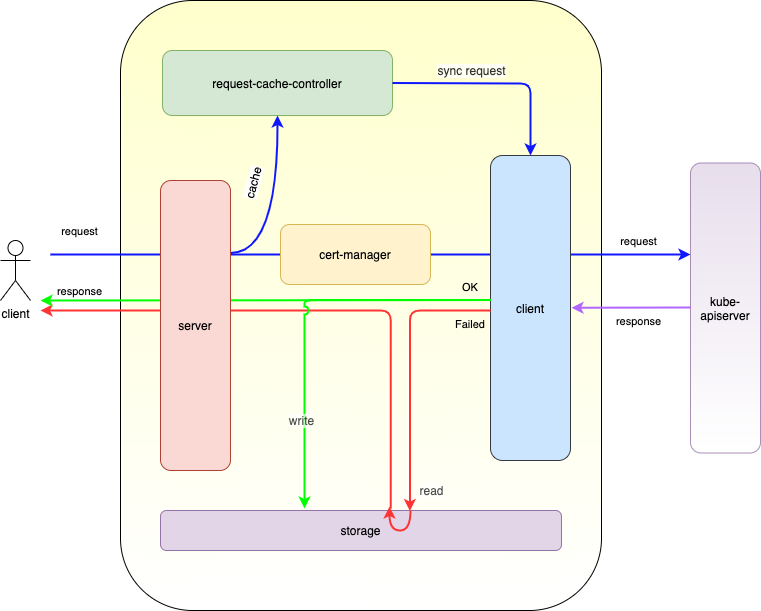
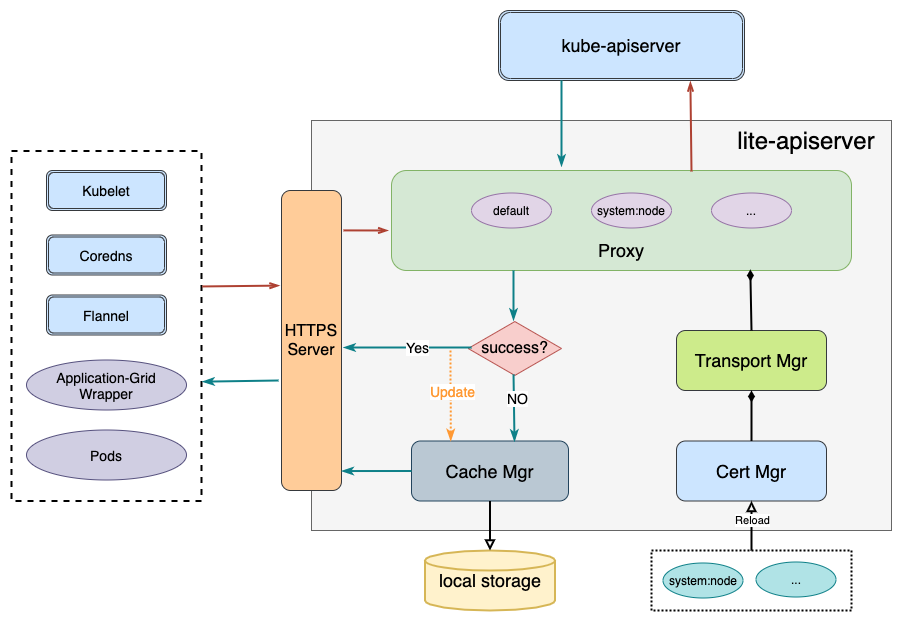
update lite-apiserver doc

diff --git a/docs/components/lite-apiserver_CN.md b/docs/components/lite-apiserver_CN.md
@@ -1,27 +1,97 @@
-lite-apiserver是运行在边缘节点上的轻量级apiserver，它代理节点上所有组件和Pod访问云端apiserver的请求，并对请求结果做高效缓存。在云边断连的情况下，利用这些缓存提供服务，实现边缘自治的能力。
+`lite-apiserver`是运行在边缘节点上的轻量级 apiserver，它代理节点上所有组件和业务容器访问云端 kube-apiserver 的请求，并对请求结果做高效缓存。在云边断连的情况下，利用这些缓存提供服务，实现边缘自治的能力。
+
+`lite-apiserver`具有以下特点:
+- 支持所有 Client 类型，包括以 bin(如 kubelet 等)或 pod(如 flannel\kube-proxy 等)形式运行的 Kubernetes 组件，以及以 InCluster 方式访问 kube-apiserver 的业务容器
+- 支持缓存所有类型资源(Kubernetes 内置资源和 Custom Resources)
+- 支持访问 kube-apisever 的所有认证和鉴权方式(TLS 客户端证书、token 等)，各组件和pod使用自己的认证方式和权限
+- 支持多种存储
 
 ## 架构图
 <div align="left">
   <img src="../img/lite-apiserver.png" width=70% title="lite-apiserver Architecture">
 </div>
 
-lite-apiserver具有以下特点:
-- 代理所有组件和节点上的pod到apiserver的请求
-- 支持访问apisever的证书、token等所有认证和鉴权方式，各组件和pod使用自己的认证方式和权限
-- 可处理和缓存所有类型的资源，包括kubernetes内置资源和CRD
+从整体上看，`lite-apiserver`启动一个 HTTPS Server 接受所有 Client 的请求（https request），并根据 request tls 证书中的 Common Name 选择对应的 ReverseProxy（如果 request 没有 mtls 证书，则使用 default），将 request 转发到 kube-apiserver。当云边网络正常时，将对应的返回结果（https response）返回给client，并按需将response异步存储到缓存中；当云边断连时，访问kube-apiserver超时，从缓存中获取已缓存的数据返回给client，达到边缘自治的目的。
+
+- **HTTPS Server**
+  监听 localhost 的端口（SuperEdge 中为51003）接受 Client 的 Https 请求。
+- **Cert Mgr && Transport Mgr**
+  Cert Mgr 负责管理连接 kube-apiserver 的 TLS 客户端证书。它周期性加载配置的TLS证书，如果有更新，通知Transport Mgr创建或更新对应的transport。
+  Transport Mgr负责管理transport。它接收Cert Mgr的通知，创建新的transport，或者关闭证书已更新的transport的旧连接。
+- **Proxy**
+  根据 request mtls 证书中的 Common Name 选择对应的 ReverseProxy（如果 request 没有 mtls 证书，则使用 default），将 request 转发到 kube-apiserver。如果请求成功，则将结果直接给 Client 返回，并调用 Cache Mgr 缓存数据；如果请求失败，则从 Cache Mgr 中读取数据给 Client。
+- **Cache Mgr**
+  根据 Client 的类型分别缓存 Get 和 List 的结果数据，并根据 Watch 的返回值，更新对应的 List 数据。
 
 ## 使用说明
-可使用static pod或者systemd在边缘节点上部署lite-apiserver，参见edgeadm或手动部署文档
+可使用static pod或者systemd在边缘节点上部署lite-apiserver，参见[edgeadm](../installation/install_via_edgeadm_CN.md)或[手动部署文档](../installation/install_manually_CN.md)
 
-### 启动参数
-#### Server相关参数
-- ca-file: 集群或apiserver使用的ca
-- tls-cert-file: ca-file签署的lite-apiserver的tls证书
-- tls-private-key-file: lite-apiserver的tls证书的私钥
-- kube-apiserver-url: 云端apiserver的host
-- kube-apiserver-port: 云端apiserver的port
-- port: lite-apiserver监听的https端口，默认为51003
-- file-cache-path: 本地文件缓存模式下数据保存目录
-- timeout: 后端请求 kube-apiserver 默认的超时时间
-#### 证书管理相关参数
-- tls-config-file: tls证书配置文件目录，默认为空
+## 边缘自治示例
+1. 根据使用说明部署`lite-apiserver`
+2. 使用下面的示例 yaml 文件部署一个运行 echoserver 的Deployment
+```yaml
+apiVersion: apps/v1
+kind: Deployment
+metadata:
+  name: lite-demo
+  namespace: default
+spec:
+  replicas: 1
+  selector:
+    matchLabels:
+      app: echo
+  template:
+    metadata:
+      labels:
+        app: echo
+    spec:
+      containers:
+      - image: superedge/echoserver:2.2
+        name: echo
+        ports:
+        - containerPort: 8080
+          protocol: TCP
+        env:
+          - name: NODE_NAME
+            valueFrom:
+              fieldRef:
+                fieldPath: spec.nodeName
+          - name: POD_NAME
+            valueFrom:
+              fieldRef:
+                fieldPath: metadata.name
+          - name: POD_NAMESPACE
+            valueFrom:
+              fieldRef:
+                fieldPath: metadata.namespace
+          - name: POD_IP
+            valueFrom:
+              fieldRef:
+                fieldPath: status.podIP
+```
+3. 访问对应的 echoserver，结果正常
+```bash
+$ kubectl get pods -owide
+NAME                        READY   STATUS    RESTARTS   AGE     IP         NODE           NOMINATED NODE   READINESS GATES
+lite-demo-c7b458ddc-6lpnx   1/1     Running   0          4m23s   10.0.6.2   ecm-q5hx6hhd   <none>           <none>
+
+$ curl http://10.0.6.2:8080 | grep pod
+	pod name:	lite-demo-c7b458ddc-6lpnx
+	pod namespace:	default
+	pod IP:	10.0.6.2
+```
+4. 断开 pod 所在节点与 kube-apiserver 的网络，节点进入自治模式
+5. 访问 echoserver，结果正常
+```bash
+$ curl http://10.0.6.2:8080 | grep pod
+	pod name:	lite-demo-c7b458ddc-6lpnx
+	pod namespace:	default
+	pod IP:	10.0.6.2
+```
+6. 重启该节点，重启成功后，再次访问 echoserver，结果正常，说明边缘节点自治成功
+```bash
+$ curl http://10.0.6.2:8080 | grep pod
+	pod name:	lite-demo-c7b458ddc-6lpnx
+	pod namespace:	default
+	pod IP:	10.0.6.2
+```

diff --git a/docs/components/lite-apiserver.md b/docs/components/lite-apiserver.md
@@ -2,30 +2,87 @@
 
 `lite-apiserver` is a light-weight version of the kube-apiserver running on the edge nodes. It acts as a proxy for requests from all components and pods on the edge node to the cloud apiserver, and caches the responses to achieve edge autonomy in case of the disconnected cloud -edge network.
 
-## Architecture
-<div align="left">
-  <img src="../img/lite-apiserver.png" width=70% title="lite-apiserver Architecture">
-</div>
-
 `lite-apiserver` has the following functionalities:
 - Caches request for all edge components (kubelet, kube-proxy, etc.) and pods running on edge nodes
 - Provides various authentication mechanism for edge components and pods including X509 Client Certs, Bearer Token, etc.
 - Caches requests from all kind of Kubernetes resources, including build-in Kubernetes resource and custom CRDs
 
-## Installation
-`lite-apiserver` can be run at the edge as Kubernetes pod or systemd service. See [**Installation Guide**]() to get more detail
+## Architecture
+<div align="left">
+  <img src="../img/lite-apiserver.png" width=70% title="lite-apiserver Architecture">
+</div>
 
-## Options
+Overall, `lite-apiserver` start a HTTPS Server  to accepting the request of all Client (HTTPS request). According to the `Common Name` of TLS certificate, use corresponding ReverseProxy to forwarding the request to kube-apiserver (if not mtls certificate request, using default). When the cloud-edge network is normal, the corresponding https response is returned to the client, and it is asynchronously stored in the cache on demand; when the cloud-edge is disconnected, the request to kube-apiserver times out, `lite-apiserver` query cache and return the cache data to client, to achieve the purpose of edge autonomy.
 
-#### Server
-- ca-file: kubernetes cluster CA or CA used by cloud kube-apiserver
-- tls-cert-file: TLS cert for lite-apiserver
-- tls-private-key-file: TLE key for lite-apiserver
-- kube-apiserver-url: URL of cloud kube-apiserver
-- kube-apiserver-port: Port of cloud kube-apiserver
-- port: https listener port of lite-apiserver, default to 51003
-- file-cache-path: file path of local cache
-- timeout: default request timeout for backend request to cloud kube-apiserver
+## Usage
+`lite-apiserver` can be run at the edge as Kubernetes pod or systemd service. See [**Installation Guide**](../installation) to get more detail.
 
-#### Certification Management
-- tls-config-file: path to the TLS secrets, default to empty
+## Demo
+1. Installing `lite-apiserver`
+2. applying the following yaml to running echoserver
+```yaml
+apiVersion: apps/v1
+kind: Deployment
+metadata:
+  name: lite-demo
+  namespace: default
+spec:
+  replicas: 1
+  selector:
+    matchLabels:
+      app: echo
+  template:
+    metadata:
+      labels:
+        app: echo
+    spec:
+      containers:
+      - image: superedge/echoserver:2.2
+        name: echo
+        ports:
+        - containerPort: 8080
+          protocol: TCP
+        env:
+          - name: NODE_NAME
+            valueFrom:
+              fieldRef:
+                fieldPath: spec.nodeName
+          - name: POD_NAME
+            valueFrom:
+              fieldRef:
+                fieldPath: metadata.name
+          - name: POD_NAMESPACE
+            valueFrom:
+              fieldRef:
+                fieldPath: metadata.namespace
+          - name: POD_IP
+            valueFrom:
+              fieldRef:
+                fieldPath: status.podIP
+```
+3. Accessing the echoserver，the result is successful
+```bash
+$ kubectl get pods -owide
+NAME                        READY   STATUS    RESTARTS   AGE     IP         NODE           NOMINATED NODE   READINESS GATES
+lite-demo-c7b458ddc-6lpnx   1/1     Running   0          4m23s   10.0.6.2   ecm-q5hx6hhd   <none>           <none>
+
+$ curl http://10.0.6.2:8080 | grep pod
+	pod name:	lite-demo-c7b458ddc-6lpnx
+	pod namespace:	default
+	pod IP:	10.0.6.2
+```
+4. Disconnecting the network between the node which echoserver running on and kube-apiserver, the node is autonomous.
+5. Accessing the echoserver，the result is successful
+```bash
+$ curl http://10.0.6.2:8080 | grep pod
+	pod name:	lite-demo-c7b458ddc-6lpnx
+	pod namespace:	default
+	pod IP:	10.0.6.2
+```
+6. Rebooting the node, and then accessing echoserver, the result is successful.
+```bash
+$ curl http://10.0.6.2:8080 | grep pod
+	pod name:	lite-demo-c7b458ddc-6lpnx
+	pod namespace:	default
+	pod IP:	10.0.6.2
+```
